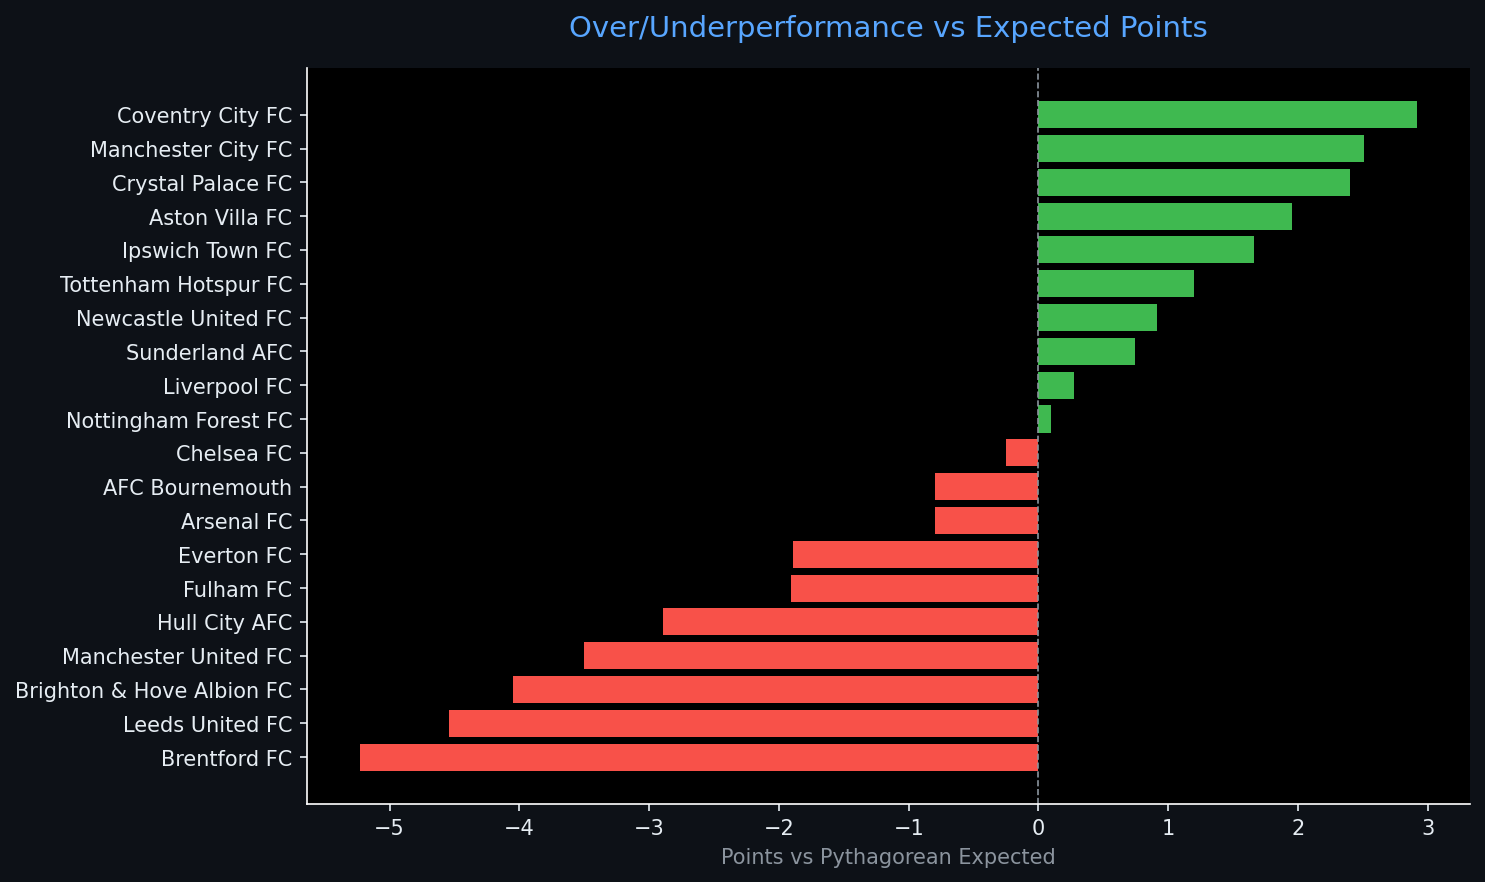
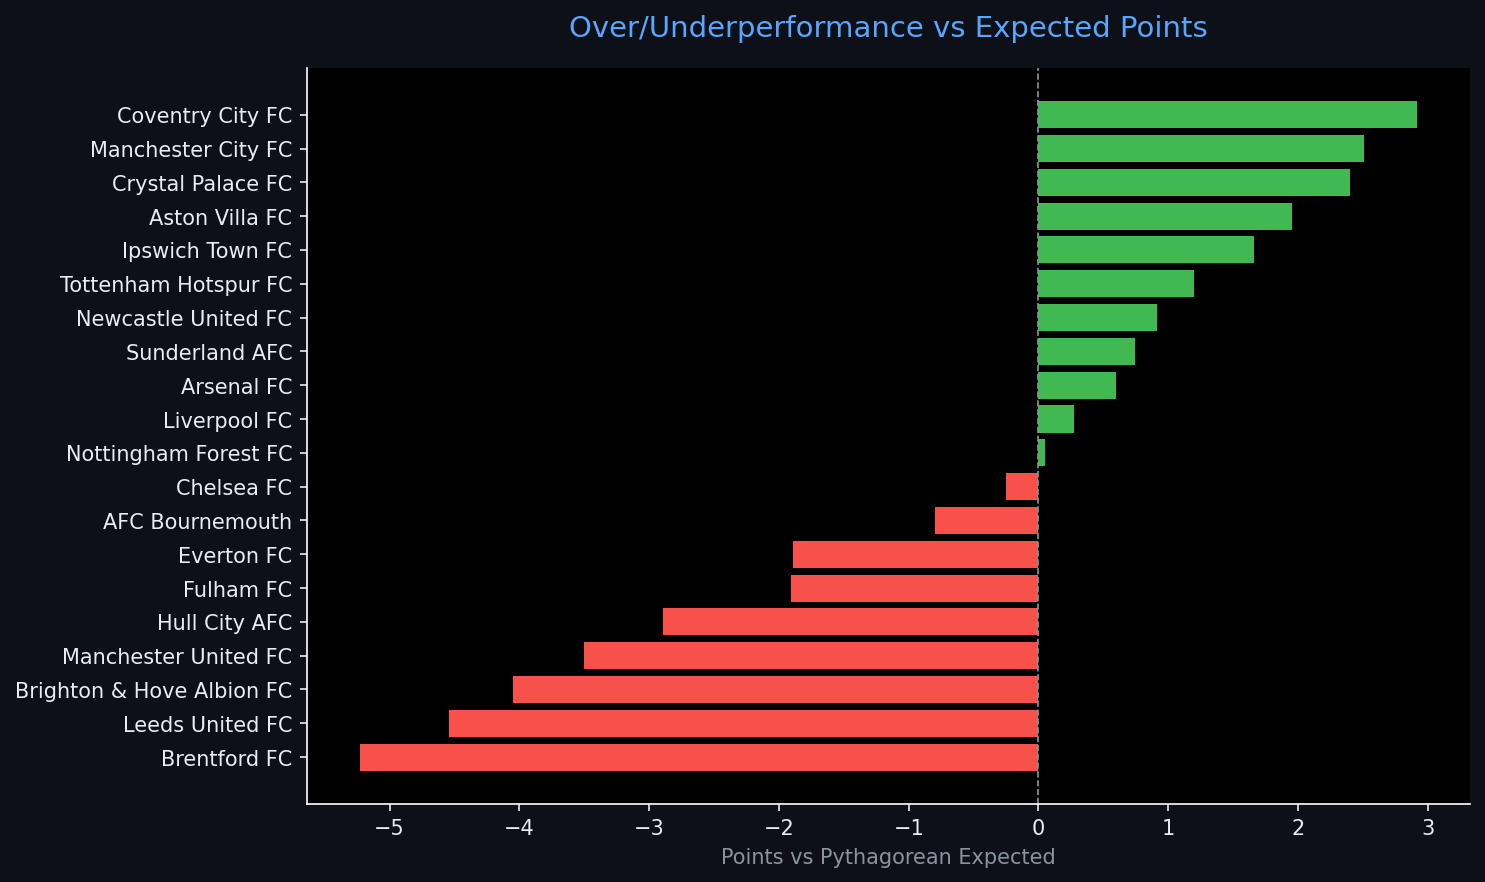
Automated ETL data update: 2026-10-18 19:56

Changed region(s): [[0.031, 0.4286, 0.2168, 0.6122], [0.6195, 0.398, 0.7744, 0.5816]]

diff --git a/reports/pipeline_report.html b/reports/pipeline_report.html
@@ -4,7 +4,7 @@
 <head>
     <meta charset="UTF-8">
     <meta name="viewport" content="width=device-width, initial-scale=1.0">
-    <title>Sports Data Pipeline Report — 2026-10-18 17:01</title>
+    <title>Sports Data Pipeline Report — 2026-10-18 19:56</title>
     <style>
         body { font-family: 'Segoe UI', sans-serif; background: #0d1117; color: #e6edf3; margin: 0; padding: 2rem; }
         h1   { color: #58a6ff; border-bottom: 1px solid #30363d; padding-bottom: 0.5rem; }
@@ -20,7 +20,7 @@
 </head>
 <body>
     <h1>⚽ Sports Data Pipeline — Automated Report</h1>
-    <p class="meta">Generated: 2026-10-18 17:01 UTC &nbsp;|&nbsp; Sport: <strong>football</strong> &nbsp;|&nbsp; Rows: <strong>20</strong></p>
+    <p class="meta">Generated: 2026-10-18 19:56 UTC &nbsp;|&nbsp; Sport: <strong>football</strong> &nbsp;|&nbsp; Rows: <strong>20</strong></p>
     <span class="badge">Pipeline v1.0.0</span>
     <h2>📊 Data Table</h2>
     <table class="dataframe data-table">
@@ -59,6 +59,21 @@
     </tr>
     <tr>
       <td>2</td>
+      <td>Arsenal FC</td>
+      <td>7</td>
+      <td>18</td>
+      <td>6</td>
+      <td>0</td>
+      <td>1</td>
+      <td>11</td>
+      <td>5</td>
+      <td>0.857</td>
+      <td>2.571</td>
+      <td>0.829</td>
+      <td>NaN</td>
+    </tr>
+    <tr>
+      <td>3</td>
       <td>Brighton &amp; Hove Albion FC</td>
       <td>7</td>
       <td>16</td>
@@ -70,21 +85,6 @@
       <td>0.714</td>
       <td>2.286</td>
       <td>0.955</td>
-      <td>NaN</td>
-    </tr>
-    <tr>
-      <td>3</td>
-      <td>Arsenal FC</td>
-      <td>7</td>
-      <td>16</td>
-      <td>5</td>
-      <td>1</td>
-      <td>1</td>
-      <td>10</td>
-      <td>5</td>
-      <td>0.714</td>
-      <td>2.286</td>
-      <td>0.800</td>
       <td>NaN</td>
     </tr>
     <tr>
@@ -254,21 +254,6 @@
     </tr>
     <tr>
       <td>15</td>
-      <td>Nottingham Forest FC</td>
-      <td>7</td>
-      <td>6</td>
-      <td>1</td>
-      <td>3</td>
-      <td>3</td>
-      <td>5</td>
-      <td>8</td>
-      <td>0.143</td>
-      <td>0.857</td>
-      <td>0.281</td>
-      <td>NaN</td>
-    </tr>
-    <tr>
-      <td>16</td>
       <td>AFC Bournemouth</td>
       <td>7</td>
       <td>6</td>
@@ -283,7 +268,7 @@
       <td>NaN</td>
     </tr>
     <tr>
-      <td>17</td>
+      <td>16</td>
       <td>Coventry City FC</td>
       <td>6</td>
       <td>6</td>
@@ -298,7 +283,7 @@
       <td>NaN</td>
     </tr>
     <tr>
-      <td>18</td>
+      <td>17</td>
       <td>Fulham FC</td>
       <td>7</td>
       <td>5</td>
@@ -310,6 +295,21 @@
       <td>0.143</td>
       <td>0.714</td>
       <td>0.329</td>
+      <td>NaN</td>
+    </tr>
+    <tr>
+      <td>18</td>
+      <td>Nottingham Forest FC</td>
+      <td>7</td>
+      <td>5</td>
+      <td>1</td>
+      <td>2</td>
+      <td>4</td>
+      <td>5</td>
+      <td>9</td>
+      <td>0.143</td>
+      <td>0.714</td>
+      <td>0.236</td>
       <td>NaN</td>
     </tr>
     <tr>
@@ -362,7 +362,7 @@
         
         <tr><td>Null Values</td><td>92</td></tr>
         
-        <tr><td>Run Timestamp (UTC)</td><td>2026-10-18T17:01:34.818719</td></tr>
+        <tr><td>Run Timestamp (UTC)</td><td>2026-10-18T19:56:30.768687</td></tr>
         
         <tr><td>ML Features Ready</td><td>False</td></tr>
         
